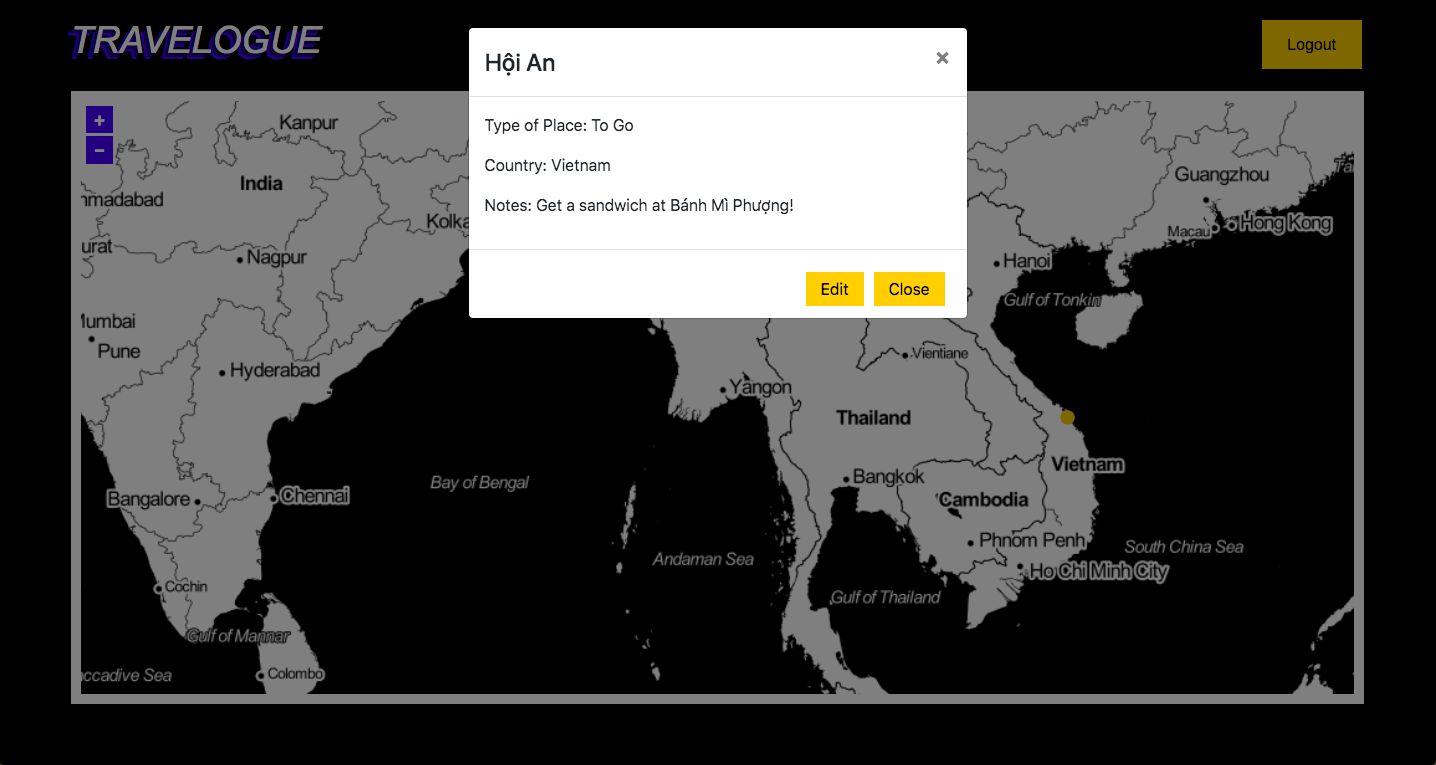
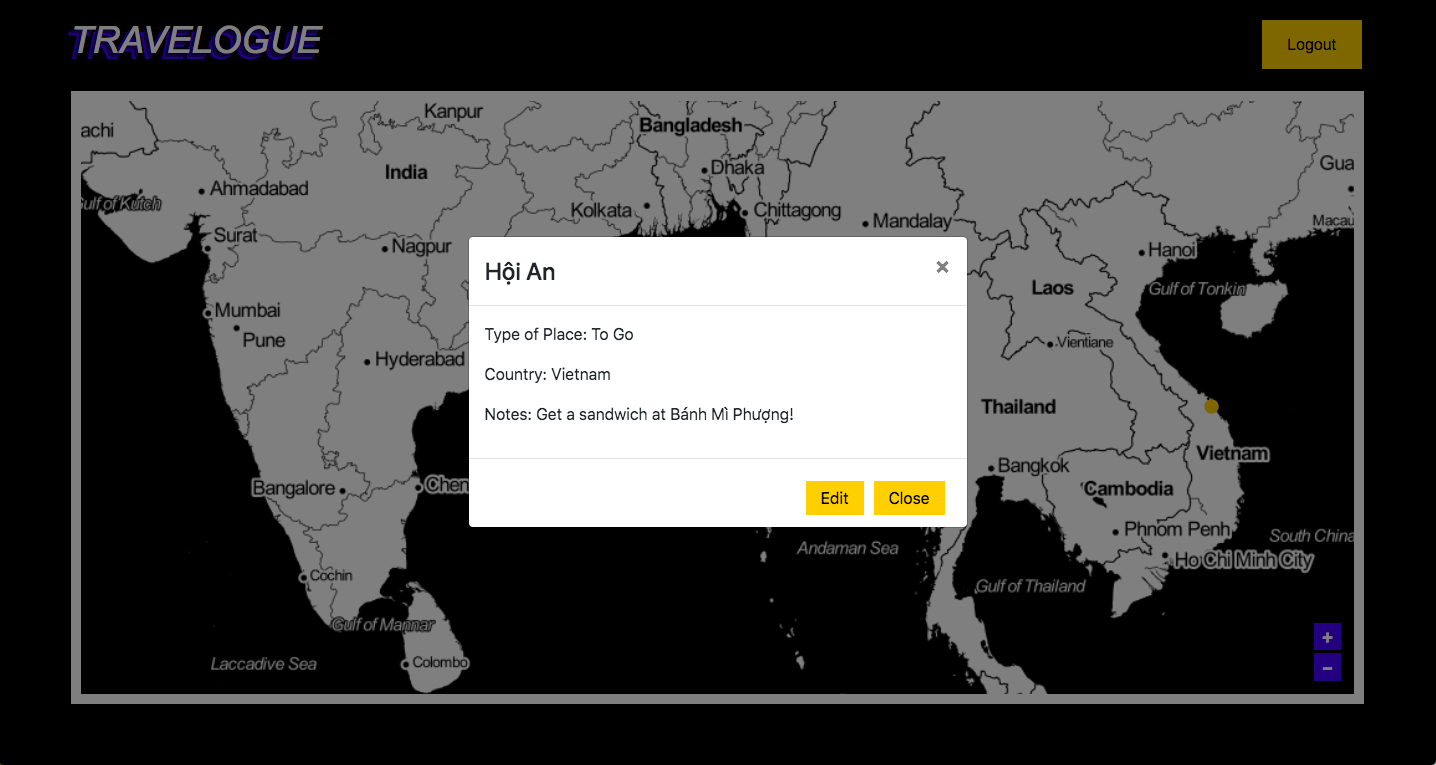
center all modals; move zoom buttons to bottom right; update screenshots

diff --git a/src/components/PlaceDetails.js b/src/components/PlaceDetails.js
@@ -15,7 +15,7 @@ function PlaceDetails(props) {
 
   return(
     <React.Fragment>
-      <Modal show={props.onShow} onHide={props.onHide}>
+      <Modal show={props.onShow} onHide={props.onHide} centered>
         <Modal.Header closeButton>
           <Modal.Title>{props.place.get('name')}</Modal.Title>
         </Modal.Header>

diff --git a/src/components/NewPlaceForm.js b/src/components/NewPlaceForm.js
@@ -24,7 +24,7 @@ function NewPlaceForm(props){
 
   return (
     <React.Fragment>
-      <Modal show={props.onShow} onHide={props.onHide}>
+      <Modal show={props.onShow} onHide={props.onHide} centered>
         <Modal.Header closeButton>
           <Modal.Title>Add a New Place</Modal.Title>
         </Modal.Header>

diff --git a/src/components/EditPlaceForm.js b/src/components/EditPlaceForm.js
@@ -22,7 +22,7 @@ function EditPlaceForm(props) {
 
   return (
     <React.Fragment>
-      <Modal show={props.onShow} onHide={props.onHide}>
+      <Modal show={props.onShow} onHide={props.onHide} centered>
         <Modal.Header closeButton>
           <Modal.Title>Edit Place</Modal.Title>
         </Modal.Header>

diff --git a/src/components/DeletePlace.js b/src/components/DeletePlace.js
@@ -7,7 +7,7 @@ function DeletePlace(props) {
   
   return(
     <React.Fragment>
-      <Modal show={props.onShow} onHide={props.onHide}>
+      <Modal show={props.onShow} onHide={props.onHide} centered>
         <Modal.Header closeButton>
           <Modal.Title>Delete Place</Modal.Title>
         </Modal.Header>

diff --git a/README.md b/README.md
@@ -58,7 +58,7 @@ To Clone:
   ```
   These are the values you will need to place in your .env file, but first you will need to create the database. Click on the "Database" tab in the "Develop" pane on the left side of Firebase console and then click "Create database". Make sure you're choosing Firestore as your database option.
 
-6. In your .evn file, copy and paste your keys from firebase into environment variables like so:
+6. In your .env file, copy and paste your keys from firebase into environment variables like so:
   ```
   REACT_APP_FIREBASE_API_KEY = "YOUR-UNIQUE-CREDENTIALS"
   REACT_APP_FIREBASE_AUTH_DOMAIN = "YOUR-PROJECT-NAME.firebaseapp.com"
@@ -71,10 +71,22 @@ To Clone:
 
 7. Now you're ready to install. Type `$ npm install` in your terminal to install all webpack plugins and dependencies. Once finished, type `$npm run build`, then`$ npm start` to interact with the project in the browser.
 
+## Minimum Viable Product Goals:
+
+*  Users can navigate a world map easily (zoom, pan, etc).
+*  Users can place pins on the map with a click, to mark places they’ve been and add places they would like to go.
+*  Users can create a login and view their previously placed pins once logged in.
+*  Users can click on a placed pin and create/read/update/delete notes for that place.
+
+## Stretch Goals:
+
+*  User's pin color will change based on if it is a place they've been, or a place they want to go.
+*  Users can upload local photos to the places they have been, so they can look back on travel memories.
+*  Users can access a user dashboard where they can browse their places in list form, and search through their places and notes.
 
 ## Known Bugs
 
-In order for the pins to display correctly, the page currently has to refresh on the closing of the place modal. 
+In order for the pins to display correctly after they've been modified, the page currently has to refresh on the closing of the place modal. I hope to remedy this by adjusting how I'm adding layers to the map.
 <br>
 
 ## Support and Contact Details
@@ -101,9 +113,3 @@ If there are any issues or questions, please reach out to me through [my GitHub 
 *This project uses the following license: [MIT](https://opensource.org/licenses/MIT)*
 
 Copyright (c) 2020 **_Kate Skorija_** 
-
-
-
-<!-- Where You Left Off:  -->
-<!-- You were trying to create a new point on a map click; may need a separate createPoint.js? and to add state to explore and pass down methods -->
-<!-- Check out the regular Draw example for Open Layers, compare to other examples -->
